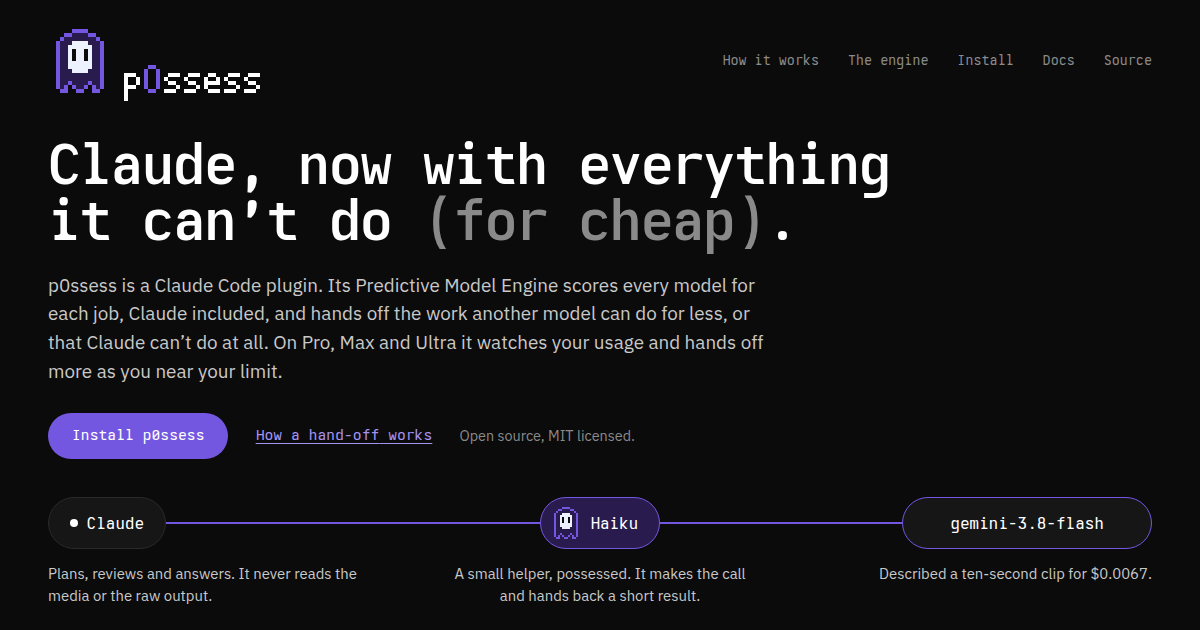
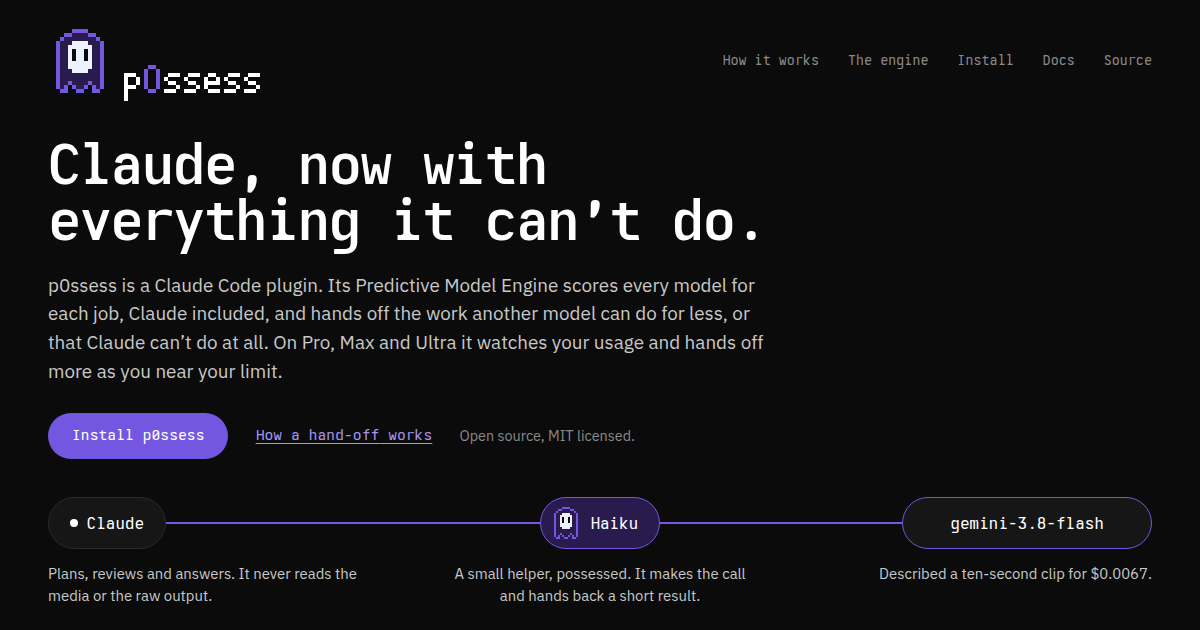
site: Claude, now with everything it can’t do

Changed region(s): [[0.0308, 0.2111, 0.74, 0.4222]]

diff --git a/site/index.html b/site/index.html
@@ -7,7 +7,7 @@
 <meta name="referrer" content="no-referrer">
 <title>p0ssess: Claude, now with everything it can’t do</title>
 <meta name="description" content="p0ssess is a Claude Code plugin. Claude stays in charge while a possessed Haiku hands video, audio and bulk work to other models through OpenRouter, within your budget and rules.">
-<meta property="og:title" content="p0ssess: Claude, now with everything it can’t do (for cheap)">
+<meta property="og:title" content="p0ssess: Claude, now with everything it can’t do">
 <meta property="og:description" content="A Claude Code plugin. Its Predictive Model Engine scores every model for each job, Claude included, and Claude hands off the work another model can do for less.">
 <meta property="og:type" content="website">
 <link rel="canonical" href="https://p0ssess.me/">
@@ -16,7 +16,7 @@
 <meta property="og:image" content="https://p0ssess.me/og.png">
 <meta property="og:image:width" content="1200">
 <meta property="og:image:height" content="630">
-<meta property="og:image:alt" content="The p0ssess hero: Claude, now with everything it can’t do (for cheap), with the hand-off from Claude through a possessed Haiku to another model.">
+<meta property="og:image:alt" content="The p0ssess hero: Claude, now with everything it can’t do, with the hand-off from Claude through a possessed Haiku to another model.">
 <meta name="twitter:card" content="summary_large_image">
 <meta name="color-scheme" content="dark">
 <meta name="theme-color" content="#0b0b0b">
@@ -45,7 +45,7 @@
     </nav>
   </div>
   <div class="pitch">
-    <h1>Claude, now with everything it can’t do <span class="aside">(for cheap)</span>.</h1>
+    <h1>Claude, now with everything it can’t do.</h1>
     <p class="lede">p0ssess is a Claude Code plugin. Its Predictive Model Engine scores every model for each job, Claude included, and hands off the work another model can do for less, or that Claude can’t do at all. On Pro, Max and Ultra it watches your usage and hands off more as you near your limit.</p>
     <p class="cta"><a class="btn" href="#try">Install p0ssess</a><a class="more" href="#possession">How <span class="wide">a hand-off</span><span class="narrow">it</span> works</a><span class="small">Open source, MIT licensed.</span></p>
   </div>

diff --git a/site/style.css b/site/style.css
@@ -88,7 +88,6 @@ small { font-size: inherit; }
 :where(.copy) > h2 + * { margin-top: calc(var(--flow) + 0.15rem); }
 
 h1, h2, h3 { font-family: var(--mono); font-weight: 700; color: var(--ink); text-wrap: balance; }
-h1 .aside { color: var(--ink-2); white-space: nowrap; }
 h1 { font-size: clamp(2.2rem, 11.5vw, 3.6rem); line-height: 1.02; letter-spacing: -0.035em; }
 h2 { font-size: clamp(1.5rem, 1.2vw + 1.2rem, 2rem); line-height: 1.12; letter-spacing: -0.025em; }
 .engine h2 { font-size: clamp(1.55rem, 6.6vw, 2.25rem); }
